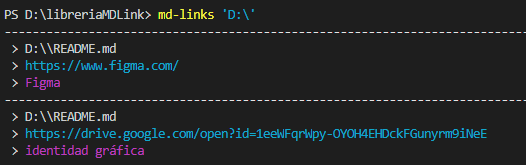
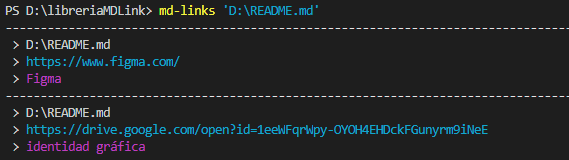
Subiendo imagenes para ejemplos del readme

diff --git a/README.md b/README.md
@@ -50,7 +50,9 @@ Por ejemplo:
 * Al pasar la opción `--status`, el output (salida) será un texto con estadísticas básicas sobre los links.
 Por ejemplo:
 
-
+`--status --validate`
+* También podemos pasar las dos opciones a la vez `--status --validate`, se obtendrá la estadística considerando la validación de los links.
+Por ejemplo:
 
 ## 4. Diagrama de flujo
 
